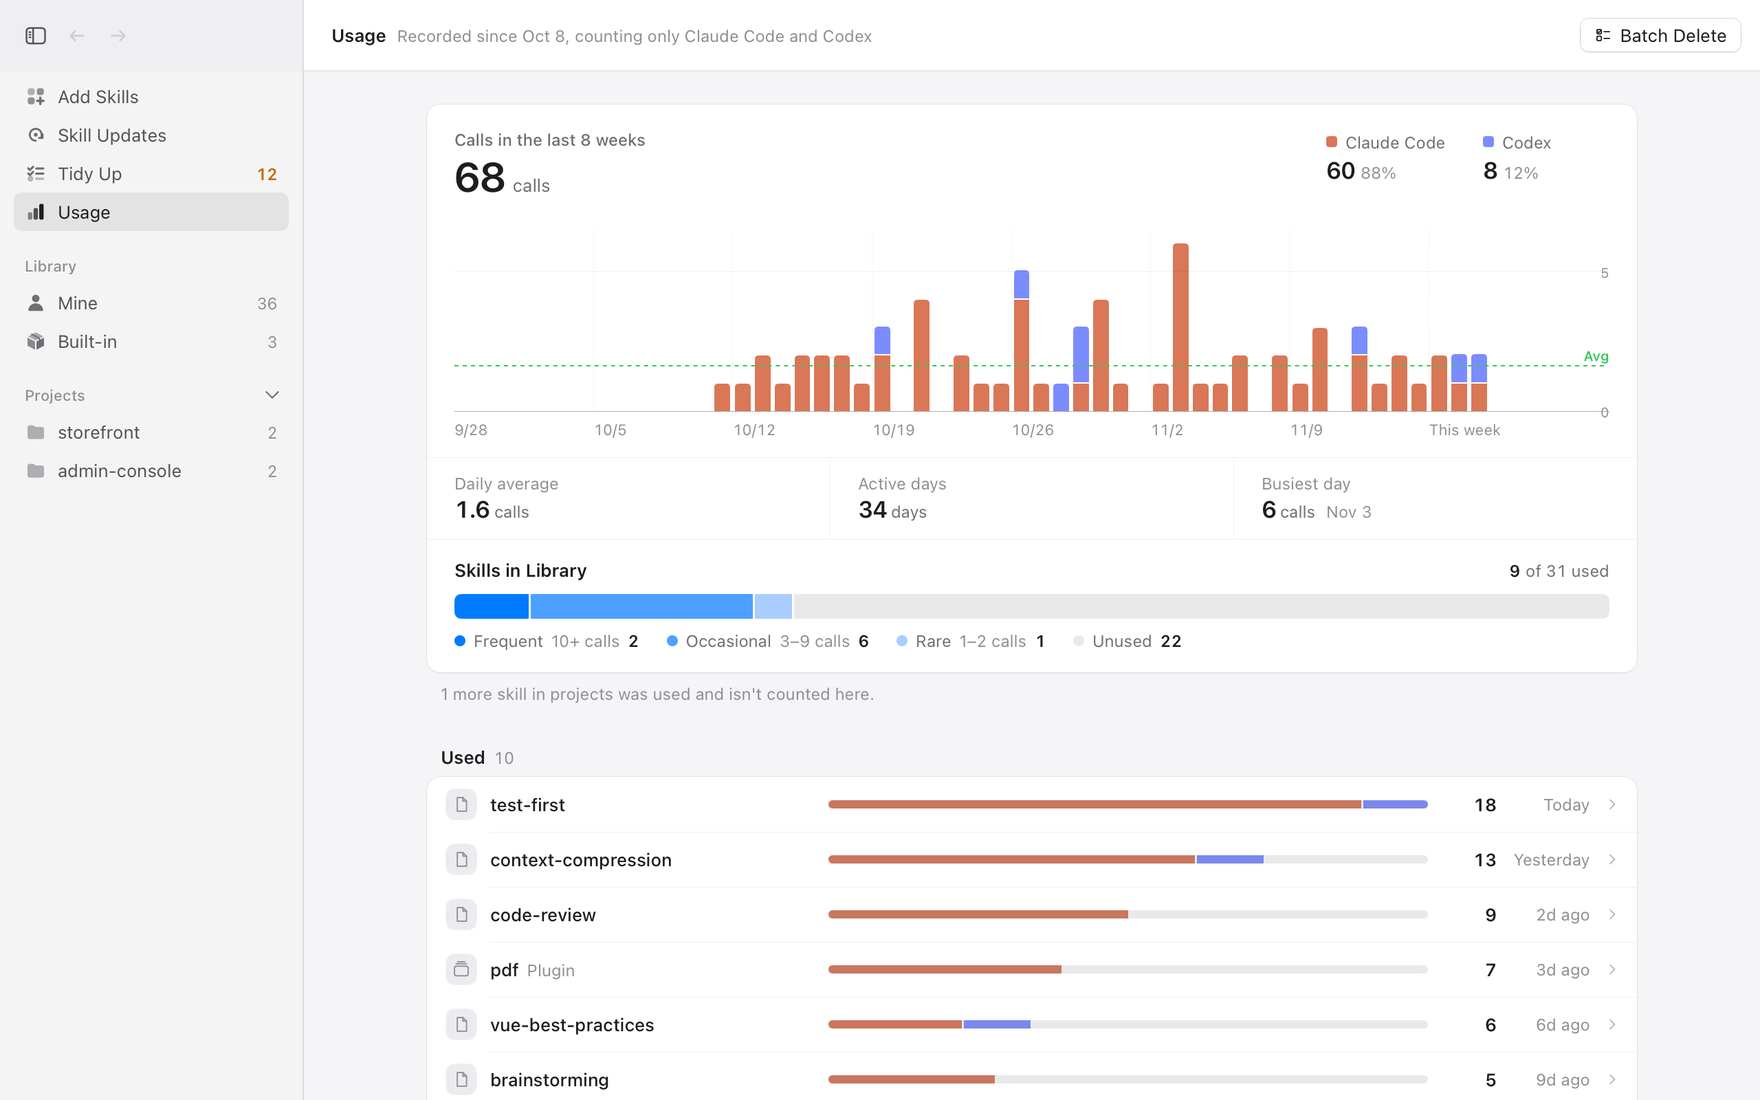
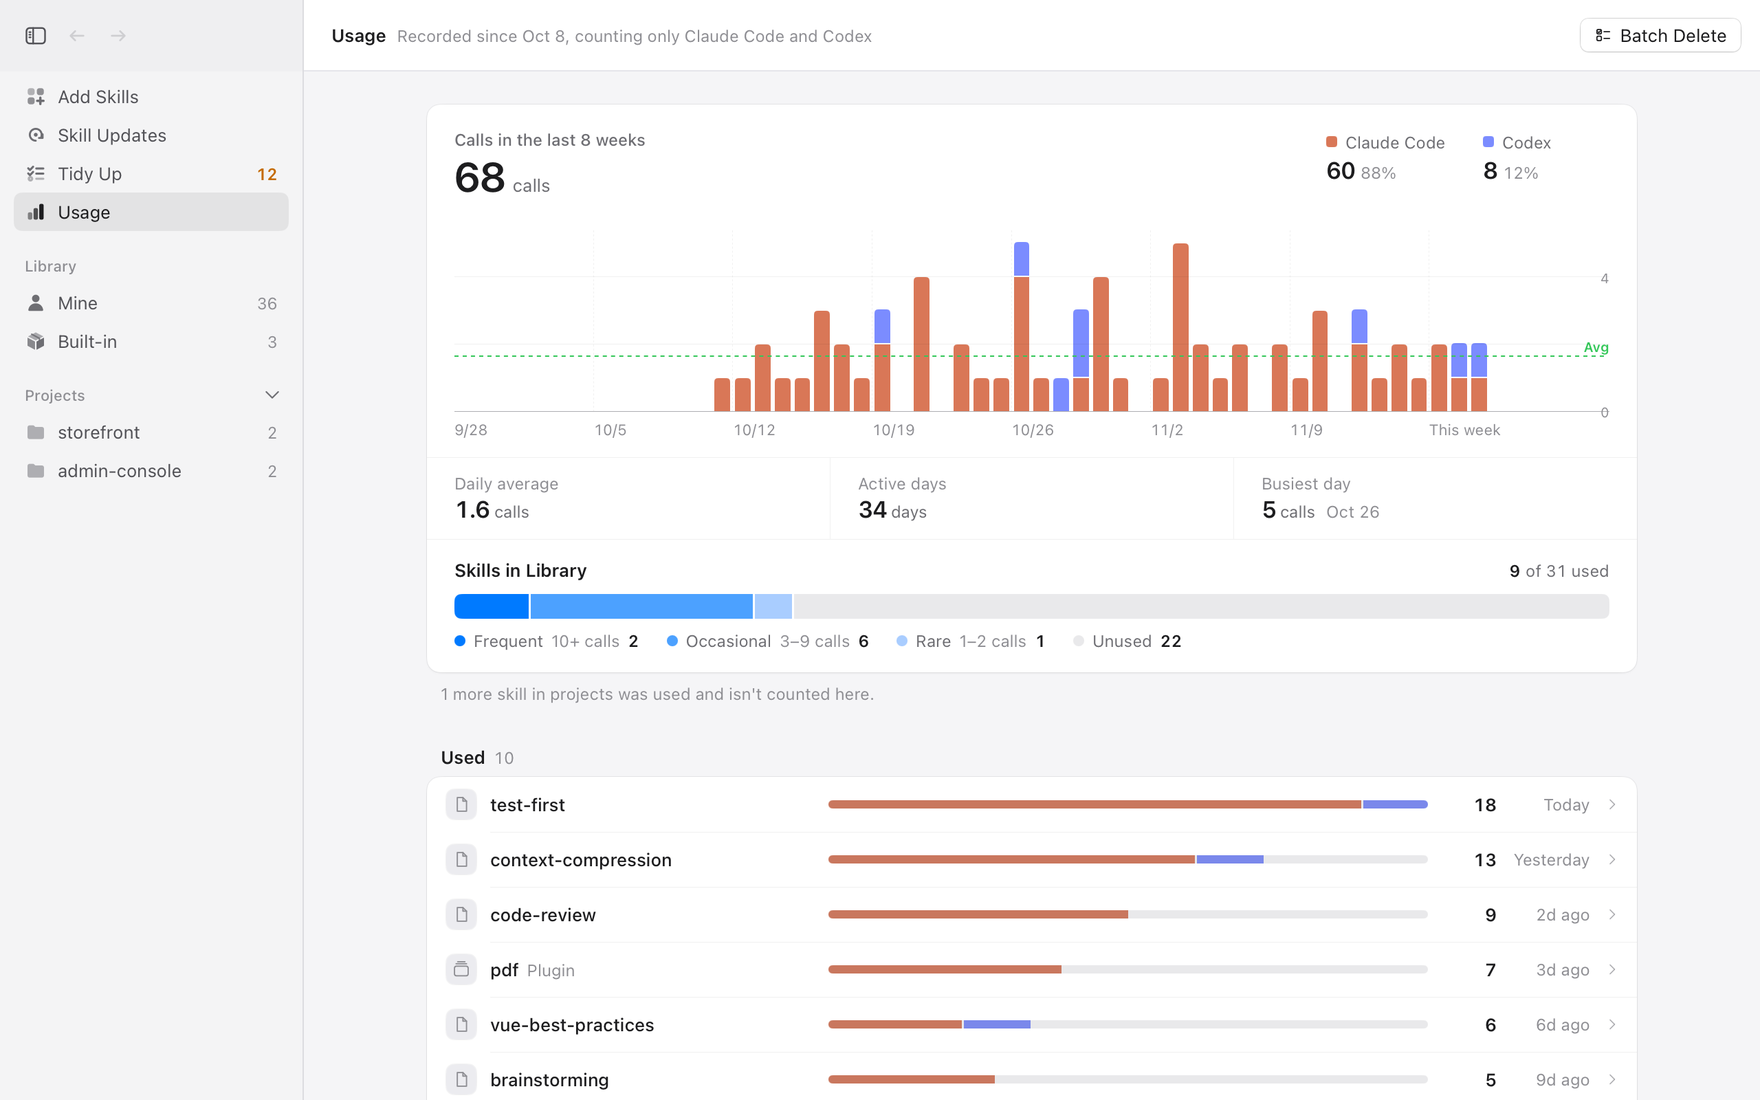
docs(readme): add a screenshot for each feature section

diff --git a/README.md b/README.md
@@ -16,6 +16,8 @@ Skill Stow scans the skill folders of 32 agents plus your projects, and shows wh
 
 Projects are found automatically from Claude Code, Codex and VS Code–based editor history, and you can add any folder by hand.
 
+![Board view: one column per agent](docs/screenshots/en/board.png)
+
 ### Turn a skill on or off per agent
 
 Flip the switch for Claude Code, Codex, Gemini CLI, OpenCode or ZCode, and the app edits that agent's own config file, so the agent sees exactly the state the app shows. Add to Another Agent… links a skill into any other agent's folder, and Remove deletes only links the app created.
@@ -25,6 +27,8 @@ Flip the switch for Claude Code, Codex, Gemini CLI, OpenCode or ZCode, and the a
 Paste a GitHub link, `owner/repo`, an `npx skills add …` command or a website URL, or drop a folder or `.zip` onto the window. Pick which skills to add and where they go: the shared library, specific agents, or a project.
 
 Every skill gets the local security check before it's added, and for GitHub sources the skills.sh security audit is shown next to it. A skill that is high risk or couldn't be fully checked is only added if you choose Add Anyway.
+
+![Add Skills: pick skills from a folder, with their check results](docs/screenshots/en/add.png)
 
 ### Local security check
 
@@ -38,6 +42,8 @@ An offline analyzer reads every file of every skill, including SKILL.md, scripts
 
 Each finding links to the exact line. Mark it Reviewed once you've looked; if the skill's content changes, the finding comes back. The first launch checks everything in the background, and a skill whose files change is marked Outdated and checked again. It's a heuristic check, not a guarantee of safety.
 
+![Security check: a high-risk finding with the exact lines](docs/screenshots/en/security.png)
+
 ### Update without surprises
 
 Skills added from GitHub remember the commit they came from. Skill Updates lists the ones with newer upstream commits, and View Differences shows a file-by-file diff before anything changes.
@@ -48,6 +54,8 @@ Skills added from GitHub remember the commit they came from. Skill Updates lists
 - Update checks only run when you click Check for Skill Updates. Proxy settings and your local `gh` login are supported for restricted networks and higher rate limits.
 
 Skills installed into a project aren't included in updates yet.
+
+![Skill Updates: ready, needs confirmation, needs attention](docs/screenshots/en/updates.png)
 
 ### Tidy Up
 
@@ -60,14 +68,16 @@ One list of everything that needs attention, and most fixes take one click:
 - install records left behind by skills you deleted
 - global links that point into a project, which break if the project moves
 
+<p>
+  <img src="docs/screenshots/en/tidy.png" width="49%" alt="Tidy Up: every issue in one list">
+  <img src="docs/screenshots/en/compare.png" width="49%" alt="Comparing two copies of a skill side by side">
+</p>
+
 ### Usage
 
 Counts how often each skill was called, based on Claude Code and Codex session logs on your Mac, so you can see what you actually use and clear out what you don't. Other agents don't keep call records.
 
-<p>
-  <img src="docs/screenshots/en/tidy.png" width="49%" alt="Tidy Up: duplicate copies and broken links, fixed in one click">
-  <img src="docs/screenshots/en/usage.png" width="49%" alt="Usage: how often each skill is called">
-</p>
+![Usage: calls over the last 8 weeks and per skill](docs/screenshots/en/usage.png)
 
 ### Feels like a Mac app
 
@@ -75,6 +85,8 @@ Counts how often each skill was called, based on Claude Code and Codex session l
 - The window follows the disk: install a skill from the terminal and it shows up without a refresh.
 - Deleting moves skills to the Trash, with Undo (⌘Z) right in the notification.
 - Back and forward history (⌘[ and ⌘]), drag and drop, light and dark appearance, English and Simplified Chinese.
+
+![⌘K search across names, descriptions and full text](docs/screenshots/en/search.png)
 
 ## Install
 

diff --git a/README.zh-CN.md b/README.zh-CN.md
@@ -16,6 +16,8 @@
 
 项目会从 Claude Code、Codex 和 VS Code 系编辑器的使用记录里自动找出来，也可以手动添加任意文件夹。
 
+![看板：一个 Agent 一列](docs/screenshots/zh/board.png)
+
 ### 按 Agent 开关单个技能
 
 在 Claude Code、Codex、Gemini CLI、OpenCode 或 ZCode 上拨一下开关，应用会直接改这个 Agent 自己的配置文件，Agent 那边看到的状态和这里完全一致。「添加到其他 Agent…」会把技能链接进其他 Agent 的目录；「移除」只删本应用建的链接。
@@ -25,6 +27,8 @@
 粘贴 GitHub 链接、`owner/repo`、`npx skills add …` 命令或网站地址，或者直接把文件夹、`.zip` 拖进窗口。选好要加哪些技能、放到哪里：通用技能库、指定的 Agent，或者某个项目。
 
 每个技能加进来之前都会先做本地安全检查；GitHub 来源还会同时列出 skills.sh 的安全审计。高风险或没能检查完的技能，要你点「仍然添加」才会加进来。
+
+![添加技能：从文件夹里挑技能，附检查结果](docs/screenshots/zh/add.png)
 
 ### 本地安全检查
 
@@ -38,6 +42,8 @@
 
 每条结果都能直接跳到对应的那一行。看过之后勾上「已看过」；技能内容一变，它会重新出现。首次打开会在后台检查全部技能，之后哪个技能的文件变了，就标成「已过期」并重新检查。这是基于规则的检查，不能保证绝对安全。
 
+![安全检查：高风险结果和对应的代码行](docs/screenshots/zh/security.png)
+
 ### 更新不踩坑
 
 从 GitHub 添加的技能会记下来源 commit。「技能更新」列出上游有新 commit 的技能，「查看差异」会在改动之前逐个文件展示差异。
@@ -48,6 +54,8 @@
 - 只在你点「检查技能更新」时才联网检查。网络受限时可以设代理，也可以用本机的 `gh` 登录提高 API 限额。
 
 装在项目里的技能暂时不参与更新。
+
+![技能更新：可更新、需确认、需处理](docs/screenshots/zh/updates.png)
 
 ### 整理
 
@@ -60,14 +68,16 @@
 - 技能删了、安装记录还留着
 - 全局链接指向项目里的技能，项目一挪就断
 
+<p>
+  <img src="docs/screenshots/zh/tidy.png" width="49%" alt="整理：所有问题列在一处">
+  <img src="docs/screenshots/zh/compare.png" width="49%" alt="左右对比同一技能的两份副本">
+</p>
+
 ### 使用情况
 
 根据本机 Claude Code 和 Codex 的会话记录，统计每个技能被调用了多少次：哪些常用、哪些从没用过，一眼就能看出来，方便清理。其他 Agent 没有留下调用记录。
 
-<p>
-  <img src="docs/screenshots/zh/tidy.png" width="49%" alt="整理：找出重复副本和断掉的链接，一键处理">
-  <img src="docs/screenshots/zh/usage.png" width="49%" alt="使用情况：每个技能被调用的次数">
-</p>
+![使用情况：近 8 周和每个技能的调用](docs/screenshots/zh/usage.png)
 
 ### 用起来像原生 Mac 应用
 
@@ -75,6 +85,8 @@
 - 界面跟着磁盘走：在终端里装了技能，不用刷新就会出现。
 - 删除的技能进废纸篓，提示条上就有「撤销」（⌘Z）。
 - 支持前进后退（⌘[ 和 ⌘]）、拖放、浅色和深色外观，界面有简体中文和英文。
+
+![⌘K 搜索名称、简介和正文](docs/screenshots/zh/search.png)
 
 ## 安装
 

diff --git a/AGENTS.md b/AGENTS.md
@@ -19,7 +19,7 @@ go tool mygo build                # 打包 .app / .dmg 到 build/
 mkdir -p /tmp/shots && SNAPSHOT_DIR=/tmp/shots go test -run Snapshots .
 ```
 
-README 的截图在 `docs/screenshots/zh/`、`docs/screenshots/en/`，取自上面截图命令的 `2-cards-selected`（main）、`t1-tidy`（tidy）、`u1-usage` 上面 1600 像素（usage），缩到 1760 像素宽。界面有明显变化时重新生成。
+README 的截图在 `docs/screenshots/zh/`、`docs/screenshots/en/`，每个功能小节一张，由上面的截图命令加 `-run 'TestSnapshots$|TestUsageSnapshots|TestImportSnapshots|TestUpdate.*Snapshot'` 生成：main=`2-cards-selected`、board=`4-board`、add=`import-pick`、security=`s5-sec-report`、updates=`updates-full`、tidy=`t1-tidy`、compare=`d1-compare`、usage=`u1-usage`（取上面 1600 像素）、search=`k2-palette-test`，都缩到 1760 像素宽。界面有明显变化时重新生成。
 
 ## 代码分层
 
